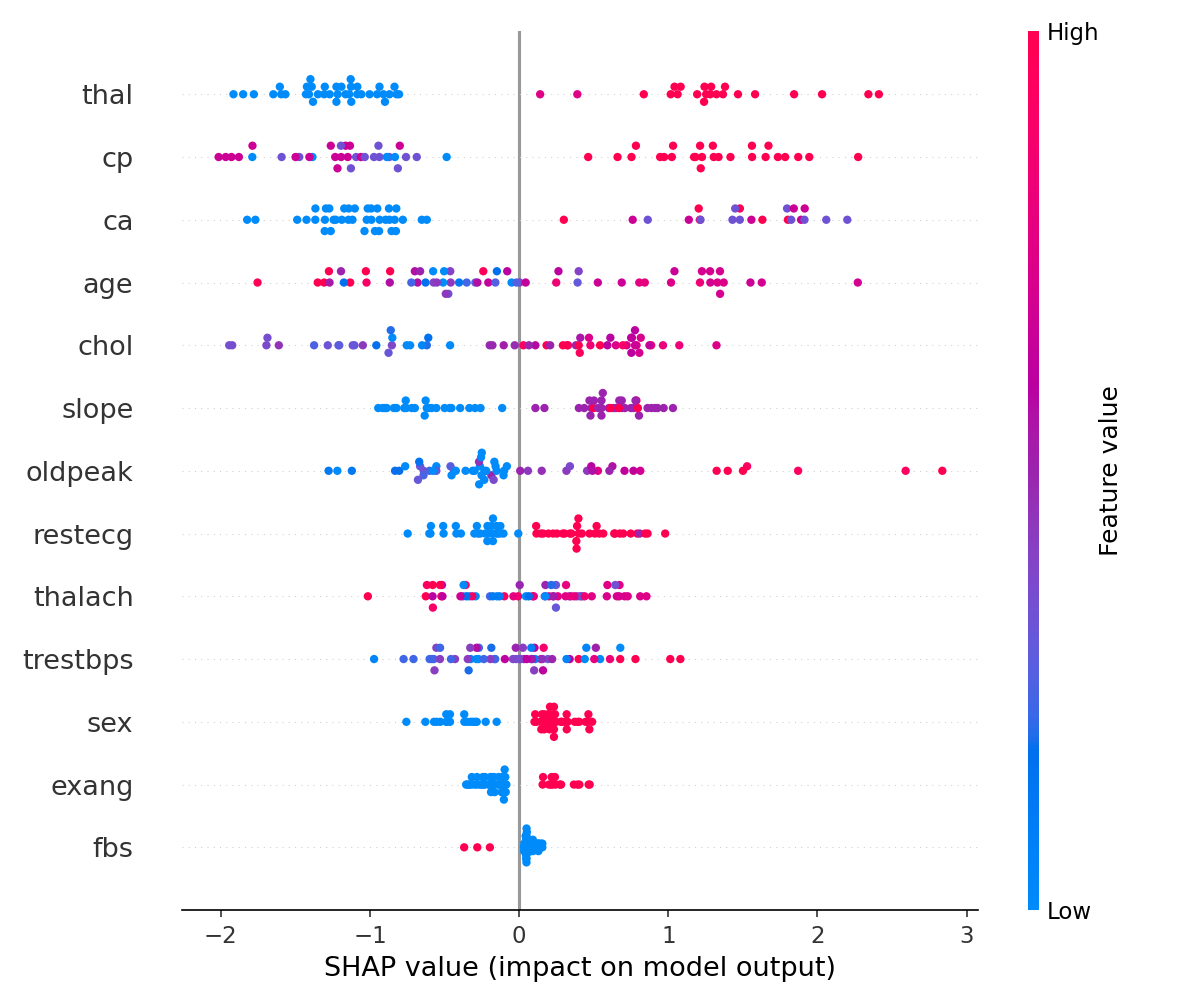
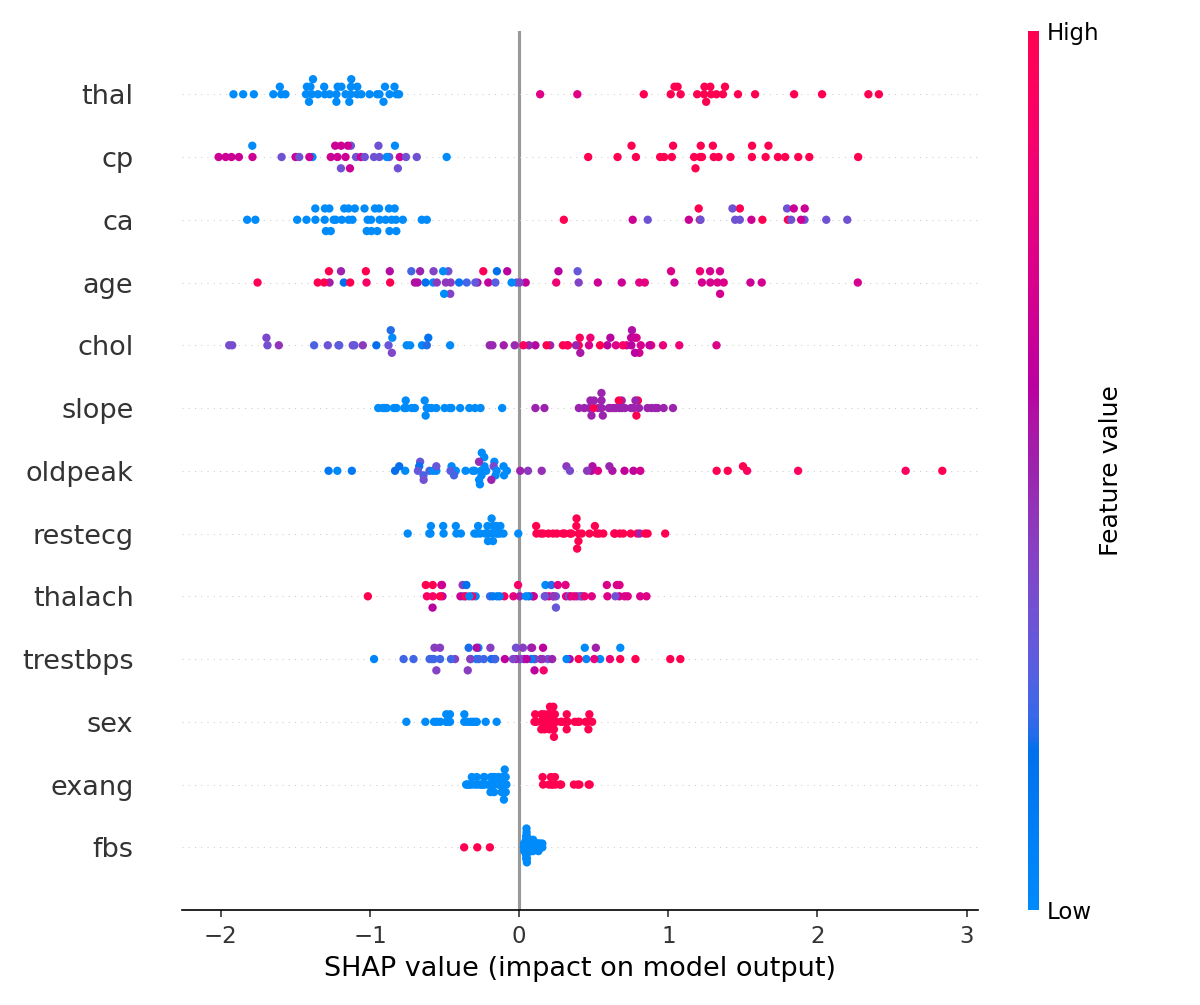
Add cross-validation, calibration curves, SHAP force plots

diff --git a/main.py b/main.py
@@ -2,7 +2,7 @@
 
 Teaching pipeline, not a clinical tool: trains XGBoost on a CSV with a
 binary `target` column, prints a classification report, saves the trained
-model + metrics, and writes a SHAP summary plot.
+model + metrics, and writes SHAP explanations.
 
 Default data is the UCI Cleveland set (297 rows after cleaning, 13
 features) in data/cleveland.csv. The bundled data/heart.csv is a small
@@ -19,17 +19,28 @@ import matplotlib
 
 matplotlib.use("Agg")
 import matplotlib.pyplot as plt
+import numpy as np
 import pandas as pd
 import shap
 import xgboost as xgb
-from sklearn.metrics import classification_report
-from sklearn.model_selection import train_test_split
+from sklearn.calibration import CalibrationDisplay
+from sklearn.metrics import (
+    classification_report,
+    confusion_matrix,
+    f1_score,
+    precision_score,
+    recall_score,
+    roc_auc_score,
+)
+from sklearn.model_selection import StratifiedKFold, train_test_split
 
 HERE = Path(__file__).resolve().parent
 DEFAULT_DATA = HERE / "data" / "cleveland.csv"
+N_SPLITS = 5
 
 
 def train_model(data_path, out_dir):
+    """Single 80/20 stratified split — original pipeline, kept for comparability."""
     out_dir = Path(out_dir)
     out_dir.mkdir(parents=True, exist_ok=True)
 
@@ -46,6 +57,7 @@ def train_model(data_path, out_dir):
     model.fit(X_train, y_train)
 
     preds = model.predict(X_test)
+    probs = model.predict_proba(X_test)[:, 1]
     report = classification_report(y_test, preds, output_dict=True)
     print(classification_report(y_test, preds))
 
@@ -53,10 +65,15 @@ def train_model(data_path, out_dir):
         "data": str(data_path),
         "n_rows": len(df),
         "n_features": X.shape[1],
+        "split": "single_80_20",
         "accuracy": report["accuracy"],
         "macro_avg": report["macro avg"],
         "class_0": report["0"],
         "class_1": report["1"],
+        "roc_auc": float(roc_auc_score(y_test, probs)),
+        "precision": float(precision_score(y_test, preds, zero_division=0)),
+        "recall": float(recall_score(y_test, preds, zero_division=0)),
+        "f1": float(f1_score(y_test, preds, zero_division=0)),
     }
 
     explainer = shap.TreeExplainer(model)
@@ -67,7 +84,7 @@ def train_model(data_path, out_dir):
         metrics["shap_expected_value"] = [float(v) for v in explainer.expected_value]
 
     joblib.dump(model, out_dir / "model.joblib")
-    with open(out_dir / "metrics.json", "w") as f:
+    with open(out_dir / "metrics_single.json", "w") as f:
         json.dump(metrics, f, indent=2)
 
     plt.figure(figsize=(10, 6))
@@ -76,14 +93,134 @@ def train_model(data_path, out_dir):
     plt.savefig(out_dir / "feature_importance.png", dpi=150)
     plt.close()
 
-    print(f"Saved model.joblib, metrics.json, feature_importance.png to {out_dir}")
+    # SHAP force plots for 3 representative patients (one per outcome mix)
+    force_idx = [0, len(X_test) // 2, len(X_test) - 1]
+    for i, idx in enumerate(force_idx):
+        plt.figure(figsize=(10, 3))
+        shap.force_plot(
+            explainer.expected_value,
+            shap_values[idx],
+            X_test.iloc[idx],
+            matplotlib=True,
+            show=False,
+        )
+        plt.tight_layout()
+        plt.savefig(
+            out_dir / f"force_plot_patient_{i}.png", dpi=150, bbox_inches="tight"
+        )
+        plt.close()
+
+    # Calibration curve — do predicted probabilities match actual outcomes?
+    plt.figure(figsize=(6, 6))
+    CalibrationDisplay.from_estimator(model, X_test, y_test, n_bins=10)
+    plt.title("Calibration Curve — XGBoost (single split)")
+    plt.tight_layout()
+    plt.savefig(out_dir / "calibration_curve.png", dpi=150)
+    plt.close()
+
+    print(
+        f"Saved model.joblib, metrics_single.json, SHAP plots, calibration_curve.png to {out_dir}"
+    )
     return model, metrics
 
 
+def cross_validate(data_path, out_dir):
+    """5-fold stratified cross-validation — estimates generalization, not luck of one split."""
+    out_dir = Path(out_dir)
+    out_dir.mkdir(parents=True, exist_ok=True)
+
+    df = pd.read_csv(data_path)
+    X = df.drop("target", axis=1)
+    y = df["target"]
+
+    cv = StratifiedKFold(n_splits=N_SPLITS, shuffle=True, random_state=42)
+
+    fold_metrics = []
+    fold = 0
+    for train_idx, test_idx in cv.split(X, y):
+        fold += 1
+        X_train, X_test = X.iloc[train_idx], X.iloc[test_idx]
+        y_train, y_test = y.iloc[train_idx], y.iloc[test_idx]
+
+        model = xgb.XGBClassifier(eval_metric="logloss", random_state=42)
+        model.fit(X_train, y_train)
+
+        preds = model.predict(X_test)
+        probs = model.predict_proba(X_test)[:, 1]
+
+        fold_metrics.append(
+            {
+                "fold": fold,
+                "accuracy": float(np.mean(preds == y_test)),
+                "precision": float(precision_score(y_test, preds, zero_division=0)),
+                "recall": float(recall_score(y_test, preds, zero_division=0)),
+                "f1": float(f1_score(y_test, preds, zero_division=0)),
+                "roc_auc": float(roc_auc_score(y_test, probs)),
+                "n_test": len(y_test),
+            }
+        )
+        print(
+            f"Fold {fold}: acc={fold_metrics[-1]['accuracy']:.3f}, "
+            f"f1={fold_metrics[-1]['f1']:.3f}, roc_auc={fold_metrics[-1]['roc_auc']:.3f}"
+        )
+
+    keys = ["accuracy", "precision", "recall", "f1", "roc_auc"]
+    cv_summary = {
+        "data": str(data_path),
+        "n_rows": len(df),
+        "n_features": X.shape[1],
+        "split": f"{N_SPLITS}-fold_stratified_cv",
+        "n_splits": N_SPLITS,
+    }
+    for key in keys:
+        vals = [m[key] for m in fold_metrics]
+        cv_summary[f"mean_{key}"] = float(np.mean(vals))
+        cv_summary[f"std_{key}"] = float(np.std(vals))
+    cv_summary["folds"] = fold_metrics
+
+    with open(out_dir / "metrics_cv.json", "w") as f:
+        json.dump(cv_summary, f, indent=2)
+
+    # Side-by-side comparison table (printed, also in README)
+    print("\n=== Single split vs Cross-validation ===")
+    print(f"{'Metric':<14} {'Single split':>14} {'CV mean ± std':>20}")
+    single = {
+        "accuracy": metrics["accuracy"],
+        "precision": metrics["precision"],
+        "recall": metrics["recall"],
+        "f1": metrics["f1"],
+        "roc_auc": metrics["roc_auc"],
+    }
+    for key in keys:
+        print(
+            f"{key:<14} {single[key]:>14.3f} "
+            f"{cv_summary[f'mean_{key}']:.3f} ± {cv_summary[f'std_{key}']:.3f}"
+        )
+
+    print(f"\nSaved CV metrics to {out_dir / 'metrics_cv.json'}")
+    return cv_summary
+
+
 if __name__ == "__main__":
-    parser = argparse.ArgumentParser(description="Train heart-disease XGBoost + SHAP explanations")
-    parser.add_argument("--data", default=str(DEFAULT_DATA), help="CSV with a binary target column")
-    parser.add_argument("--out", default="outputs", help="Directory for model.joblib, metrics.json, plots")
+    parser = argparse.ArgumentParser(
+        description="Train heart-disease XGBoost + SHAP explanations"
+    )
+    parser.add_argument(
+        "--data", default=str(DEFAULT_DATA), help="CSV with a binary target column"
+    )
+    parser.add_argument(
+        "--out",
+        default="outputs",
+        help="Directory for model.joblib, metrics.json, plots",
+    )
+    parser.add_argument(
+        "--cv", action="store_true", help="Also run 5-fold stratified cross-validation"
+    )
     args = parser.parse_args()
-    train_model(args.data, args.out)
+
+    model, metrics = train_model(args.data, args.out)
+
+    if args.cv:
+        cross_validate(args.data, args.out)
+
     print("Model training complete.")

diff --git a/README.md b/README.md
@@ -8,24 +8,25 @@ Would you trust a model that says "70% heart disease risk" without explaining wh
 
 ```
 data/cleveland.csv → 80/20 stratified split (random_state=42) → XGBClassifier → classification report
-                                                                              → metrics.json + model.joblib
-                                                                              → SHAP TreeExplainer → feature_importance.png
+                                                                               → metrics_single.json + model.joblib
+                                                                               → SHAP TreeExplainer → feature_importance.png
+                                                                               → SHAP force plots (per patient)
+                                                                               → Calibration curve (probability reliability)
+```
+
+Cross-validation:
+```
+data/cleveland.csv → 5-fold stratified CV → per-fold metrics → mean ± std → metrics_cv.json
 ```
 
 - `main.py` is the whole pipeline: load CSV, split, train, print a `classification_report`, save the model + metrics, then explain with SHAP and save the summary plot. Everything lands in `outputs/` (committed, so you can inspect a real run without training).
+- Run `python main.py` for the single-split pipeline. Add `--cv` for 5-fold stratified cross-validation: `python main.py --cv`.
 - Default data is the UCI Cleveland set: 297 rows after cleaning, 13 features, binary target. See `data/README.md` for provenance and the cleaning steps.
 - The bundled `data/heart.csv` is a 100-row, 4-feature sample — `python main.py --data data/heart.csv` runs it end to end in seconds. Good for a smoke test, not for conclusions (it scores ~0.60 accuracy on 20 test rows — small data, honest numbers).
 
-## Run it
+## Recorded runs (UCI Cleveland, 297 rows, 13 features)
 
-```bash
-pip install -r requirements.txt
-python main.py
-# prints precision/recall/F1 per class, saves model.joblib, metrics.json,
-# feature_importance.png to outputs/
-```
-
-## Recorded run (UCI Cleveland, 297 rows, 13 features)
+### Single 80/20 stratified split (n=60 test)
 
 | Class | Precision | Recall | F1 | Support |
 |-------|-----------|--------|----|---------|
@@ -33,8 +34,44 @@ python main.py
 | 1 — disease | 0.88 | 0.82 | 0.85 | 28 |
 | **Accuracy** | | | **0.87** | 60 |
 | Macro avg | 0.87 | 0.86 | 0.87 | 60 |
+| ROC-AUC | | | **0.89** | — |
 
-Run it yourself — same seed, same split, same numbers. Raw report in `outputs/metrics.json`.
+Raw report in `outputs/metrics_single.json`.
+
+### 5-fold stratified cross-validation
+
+| Metric | Mean ± Std |
+|--------|------------|
+| Accuracy | 0.79 ± 0.05 |
+| Precision | 0.79 ± 0.07 |
+| Recall | 0.76 ± 0.09 |
+| F1 | 0.77 ± 0.06 |
+| ROC-AUC | 0.86 ± 0.05 |
+
+Raw per-fold results in `outputs/metrics_cv.json`.
+
+### Single split vs Cross-validation
+
+The single 80/20 split reported 0.87 accuracy — cross-validation gives a more honest 0.79 ± 0.05. One lucky split isn't generalization. That gap is exactly why CV matters.
+
+| Metric | Single split | CV mean ± std |
+|--------|-------------|---------------|
+| Accuracy | 0.87 | 0.79 ± 0.05 |
+| Precision | 0.89 | 0.79 ± 0.07 |
+| Recall | 0.82 | 0.76 ± 0.09 |
+| F1 | 0.85 | 0.77 ± 0.06 |
+| ROC-AUC | 0.89 | 0.86 ± 0.05 |
+
+## Outputs
+
+| File | What it is |
+|------|-----------|
+| `outputs/model.joblib` | Trained XGBoost model |
+| `outputs/metrics_single.json` | Single-split metrics |
+| `outputs/metrics_cv.json` | 5-fold CV metrics (with `--cv`) |
+| `outputs/feature_importance.png` | Global SHAP summary plot |
+| `outputs/force_plot_patient_0..2.png` | Per-patient SHAP force plots |
+| `outputs/calibration_curve.png` | Reliability diagram — do predicted probabilities match actual outcomes? |
 
 ## Tech stack
 
@@ -42,9 +79,9 @@ Python, pandas, XGBoost, scikit-learn, SHAP, matplotlib. CI lints with flake8.
 
 ## Limitations — read before citing any number from this repo
 
-- Metrics above come from one 80/20 split (n=60 test). Respectable, not gospel — no cross-validation yet, no calibration, and raw classifier probabilities shouldn't be read as risk percentages.
-- The bundled `data/heart.csv` sample is still of unknown provenance. Conclusions rest on Cleveland only.
-- Single split discipline only (now stratified). No calibration curves. This is a teaching pipeline, not a clinical tool.
+- Metrics come from 297 rows of the UCI Cleveland set. Respectable, not gospel — small dataset, no external validation.
+- Raw classifier probabilities shouldn't be read as risk percentages without calibration — see `outputs/calibration_curve.png`.
+- This is a teaching pipeline, not a clinical tool.
 - **Not medical advice.** Nothing here is validated for real decisions.
 
 ## What I'd improve
@@ -52,10 +89,12 @@ Python, pandas, XGBoost, scikit-learn, SHAP, matplotlib. CI lints with flake8.
 - [x] Swap in the full 13-feature dataset and record the classification report in this README
 - [x] Drop the deprecated `use_label_encoder` flag, pin dependency versions
 - [x] Save the trained model (`joblib`) plus the SHAP expected value, so explanations reproduce without retraining
-- [ ] Add calibration curves — raw classifier probabilities shouldn't be read as risk percentages
-- [ ] Per-patient force plots, not just the global summary plot
-- [ ] Cross-validation instead of a single split
+- [x] Add calibration curves — raw classifier probabilities shouldn't be read as risk percentages
+- [x] Per-patient force plots, not just the global summary plot
+- [x] Cross-validation instead of a single split
 
 ## What I learned
 
 XGBoost is absurdly fast. SHAP values are elegant. And cleaning real-world clinical data takes more code than the ML itself — the four clean columns in the sample hide the messy part.
+
+Biggest lesson: a single train/test split can flatter you. The same model scored 0.87 accuracy on one split but 0.79 ± 0.05 across five folds. Cross-validation isn't extra credit — it's how you know your number isn't luck.
